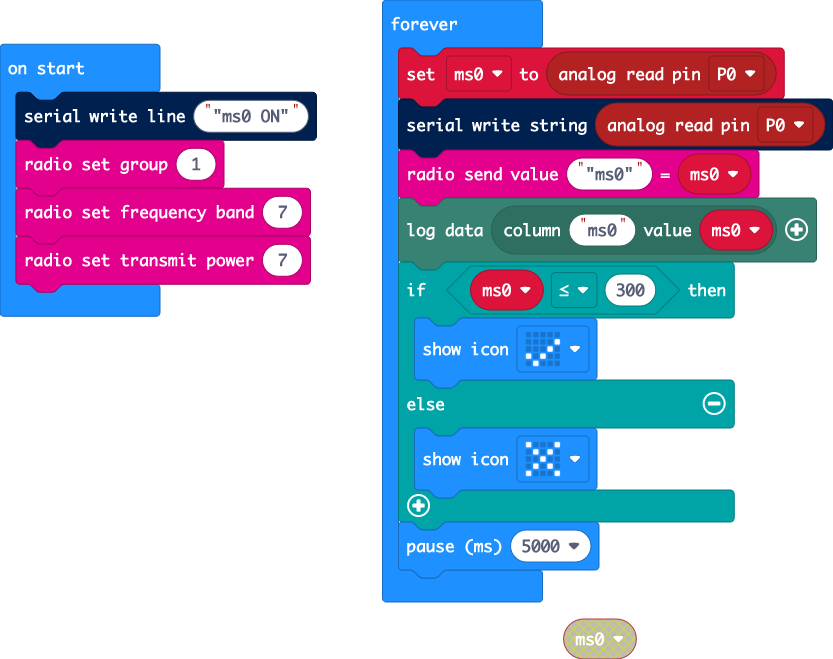
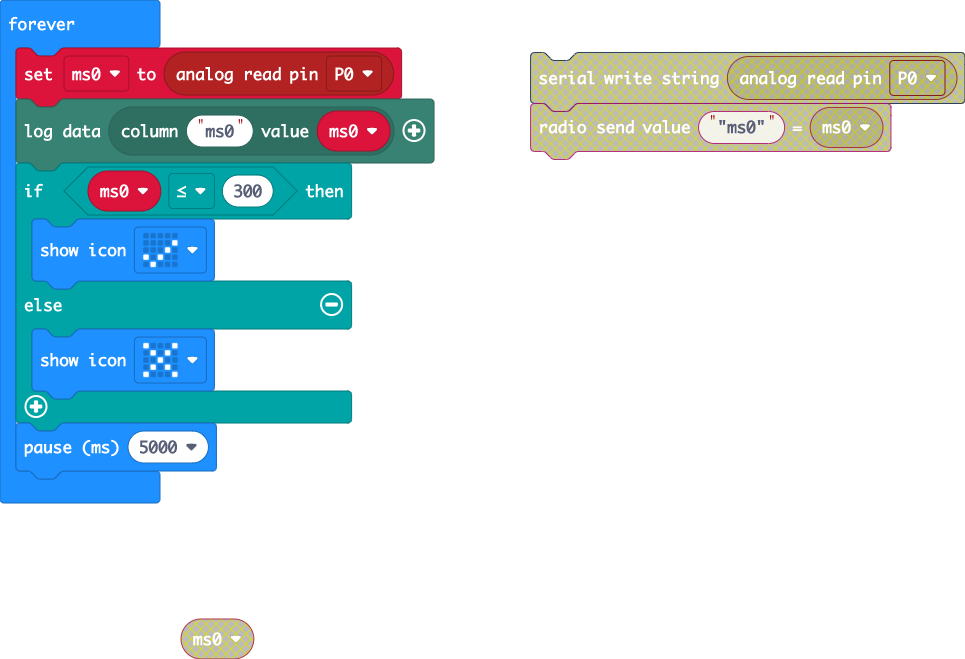
without radio version

diff --git a/main.ts b/main.ts
@@ -1,12 +1,6 @@
 let ms0 = 0
-serial.writeLine("\"ms0 ON\"")
-radio.setGroup(1)
-radio.setFrequencyBand(7)
-radio.setTransmitPower(7)
 basic.forever(function () {
     ms0 = pins.analogReadPin(AnalogPin.P0)
-    serial.writeString("" + (pins.analogReadPin(AnalogPin.P0)))
-    radio.sendValue("\"ms0\"", ms0)
     datalogger.log(datalogger.createCV("ms0", ms0))
     if (ms0 <= 300) {
         basic.showIcon(IconNames.Yes)
